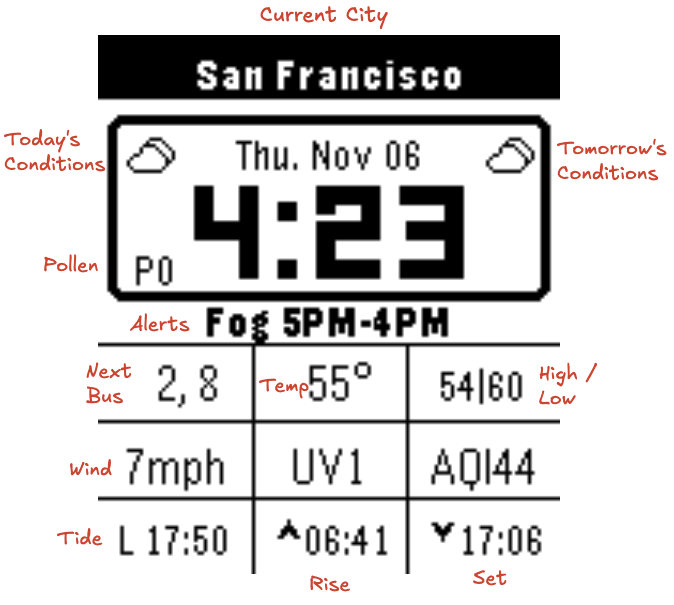
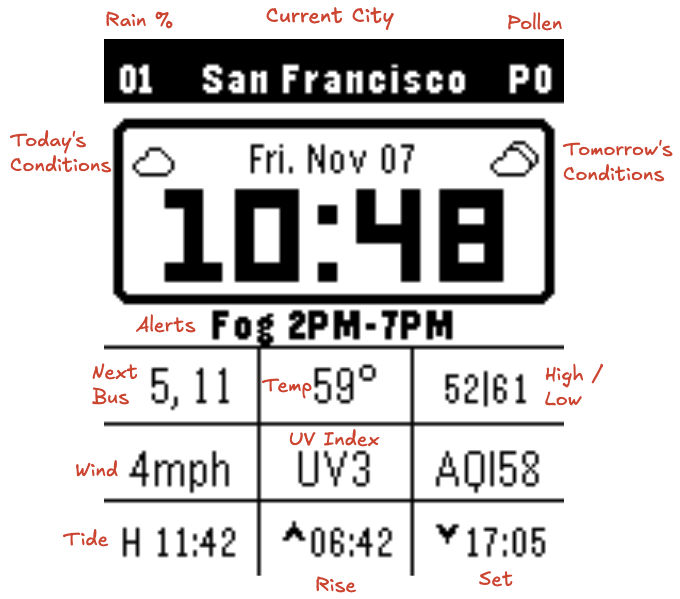
Add precipitation probability display and update documentation
Features:
- Add precipitation probability in top-left header (2-digit percentage)
- Move pollen display to top-right header for symmetry
- Both use bold font with inverted colors for header visibility
- Auto-update colors when switching themes

Technical Changes:
- Add PRECIPITATION_PROBABILITY message key to package.json
- Fetch current hour's precip probability from Open-Meteo hourly data
- Display with leading zero format (%02d): 01, 10, 89, etc.
- Add persistence support (PERSIST_KEY 25)
- Update apply_color_theme() to handle pollen and precip layers

Documentation:
- Update README.md with new header layout diagram
- Add precipitation probability to features list
- Update claude.md with detailed technical documentation
- Add new screenshots showing updated layout (normal + inverted themes)
- Update annotated screenshot with precipitation and pollen labels

UI Layout:
- Header now: [Rain%] [City Name] [Pollen]
- Clean 2-digit percentage shows chance of rain
- Pollen moved from time box to header for better balance

Changed region(s): [[0.0, 0.0, 0.997, 0.9917]]

diff --git a/src/pkjs/index.js b/src/pkjs/index.js
@@ -846,6 +846,11 @@ function sendDataToWatch(location, weatherData, aqiData, tideData, muniData, pol
     message.WEATHER_CODE = weatherData.current.weather_code || 0;
   }
 
+  // Current precipitation probability (from hourly data - use current or next hour)
+  if (weatherData && weatherData.hourly && weatherData.hourly.precipitation_probability) {
+    message.PRECIPITATION_PROBABILITY = weatherData.hourly.precipitation_probability[0] || 0;
+  }
+
   if (weatherData && weatherData.daily) {
     message.TEMP_MAX = Math.round(weatherData.daily.temperature_2m_max[0]);
     message.TEMP_MIN = Math.round(weatherData.daily.temperature_2m_min[0]);

diff --git a/src/c/fitzface.c b/src/c/fitzface.c
@@ -12,6 +12,7 @@
 #define KEY_SUNSET MESSAGE_KEY_SUNSET
 #define KEY_WIND_MAX MESSAGE_KEY_WIND_MAX
 #define KEY_AQI MESSAGE_KEY_AQI
+#define KEY_PRECIPITATION_PROBABILITY MESSAGE_KEY_PRECIPITATION_PROBABILITY
 #define KEY_TIDE_NEXT_TIME MESSAGE_KEY_TIDE_NEXT_TIME
 #define KEY_TIDE_NEXT_TYPE MESSAGE_KEY_TIDE_NEXT_TYPE
 #define KEY_TIDE_NEXT_HEIGHT MESSAGE_KEY_TIDE_NEXT_HEIGHT
@@ -68,6 +69,7 @@
 #define PERSIST_KEY_POLLEN_TREE 18
 #define PERSIST_KEY_POLLEN_GRASS 19
 #define PERSIST_KEY_POLLEN_WEED 20
+#define PERSIST_KEY_PRECIPITATION_PROBABILITY 25
 
 // Configuration persistence
 #define PERSIST_KEY_CONFIG_TEMP_UNIT 50
@@ -112,8 +114,11 @@ static GBitmap *s_temp_arrow_high_bitmap;
 // MUNI bus tracking (top-left grid cell)
 static TextLayer *s_muni_layer;
 
-// Pollen display (bottom-left of time box)
+// Pollen display (top right of header)
 static TextLayer *s_pollen_layer;
+
+// Precipitation probability (top left of header)
+static TextLayer *s_precip_layer;
 
 // Footer
 static TextLayer *s_tide_layer;
@@ -136,6 +141,7 @@ typedef struct {
   int temp_max;
   int temp_min;
   int aqi;
+  int precipitation_probability;  // 0-100%
   int tide_time;
   int tide_type; // 0 = low, 1 = high
   int sunrise;
@@ -367,7 +373,16 @@ static void update_weather_display() {
   // MUNI bus countdown updated separately (recalculated every minute)
   update_muni_display();
 
-  // Pollen display (bottom-left of time box) - show worst type + level
+  // Precipitation probability display (top left corner) - show as 2-digit percentage
+  static char precip_buffer[8];
+  if (s_weather_data.precipitation_probability >= 0) {
+    snprintf(precip_buffer, sizeof(precip_buffer), "%02d", s_weather_data.precipitation_probability);
+    text_layer_set_text(s_precip_layer, precip_buffer);
+  } else {
+    text_layer_set_text(s_precip_layer, "");
+  }
+
+  // Pollen display (top right corner) - show worst type + level
   static char pollen_buffer[8];
   if (s_weather_data.pollen_tree >= 0 || s_weather_data.pollen_grass >= 0 || s_weather_data.pollen_weed >= 0) {
     // Find highest pollen count
@@ -543,6 +558,8 @@ static void load_persisted_data() {
                                    persist_read_int(PERSIST_KEY_POLLEN_GRASS) : -1;
     s_weather_data.pollen_weed = persist_exists(PERSIST_KEY_POLLEN_WEED) ?
                                   persist_read_int(PERSIST_KEY_POLLEN_WEED) : -1;
+    s_weather_data.precipitation_probability = persist_exists(PERSIST_KEY_PRECIPITATION_PROBABILITY) ?
+                                                persist_read_int(PERSIST_KEY_PRECIPITATION_PROBABILITY) : 0;
   } else {
     // Default values
     s_weather_data.temperature = 0;
@@ -599,6 +616,7 @@ static void save_weather_data() {
   persist_write_int(PERSIST_KEY_POLLEN_TREE, s_weather_data.pollen_tree);
   persist_write_int(PERSIST_KEY_POLLEN_GRASS, s_weather_data.pollen_grass);
   persist_write_int(PERSIST_KEY_POLLEN_WEED, s_weather_data.pollen_weed);
+  persist_write_int(PERSIST_KEY_PRECIPITATION_PROBABILITY, s_weather_data.precipitation_probability);
 }
 
 // Load configuration
@@ -639,6 +657,7 @@ static void inbox_received_callback(DictionaryIterator *iterator, void *context)
   Tuple *weather_code_tuple = dict_find(iterator, KEY_WEATHER_CODE);
   Tuple *weather_code_tomorrow_tuple = dict_find(iterator, KEY_WEATHER_CODE_TOMORROW);
   Tuple *aqi_tuple = dict_find(iterator, KEY_AQI);
+  Tuple *precip_prob_tuple = dict_find(iterator, KEY_PRECIPITATION_PROBABILITY);
   Tuple *temp_max_tuple = dict_find(iterator, KEY_TEMP_MAX);
   Tuple *temp_min_tuple = dict_find(iterator, KEY_TEMP_MIN);
   Tuple *tide_time_tuple = dict_find(iterator, KEY_TIDE_NEXT_TIME);
@@ -674,6 +693,7 @@ static void inbox_received_callback(DictionaryIterator *iterator, void *context)
   if (weather_code_tuple) s_weather_data.weather_code = (int)weather_code_tuple->value->int32;
   if (weather_code_tomorrow_tuple) s_weather_data.weather_code_tomorrow = (int)weather_code_tomorrow_tuple->value->int32;
   if (aqi_tuple) s_weather_data.aqi = (int)aqi_tuple->value->int32;
+  if (precip_prob_tuple) s_weather_data.precipitation_probability = (int)precip_prob_tuple->value->int32;
   if (temp_max_tuple) s_weather_data.temp_max = (int)temp_max_tuple->value->int32;
   if (temp_min_tuple) s_weather_data.temp_min = (int)temp_min_tuple->value->int32;
   if (tide_time_tuple) s_weather_data.tide_time = (int)tide_time_tuple->value->int32;
@@ -822,7 +842,8 @@ static void apply_color_theme() {
   text_layer_set_text_color(s_uv_layer, get_foreground_color());
   text_layer_set_text_color(s_aqi_layer, get_foreground_color());
   text_layer_set_text_color(s_tide_layer, get_foreground_color());
-  text_layer_set_text_color(s_pollen_layer, get_foreground_color());
+  text_layer_set_text_color(s_pollen_layer, get_background_color());  // Inverted for header
+  text_layer_set_text_color(s_precip_layer, get_background_color());  // Inverted for header
   text_layer_set_text_color(s_sunrise_layer, get_foreground_color());
   text_layer_set_text_color(s_sunset_layer, get_foreground_color());
 
@@ -899,6 +920,17 @@ static void main_window_load(Window *window) {
   );
   layer_add_child(window_layer, text_layer_get_layer(s_location_layer));
 
+  // Precipitation probability (top left corner of header) - inverted colors for black header
+  s_precip_layer = create_text_layer_colored(
+    GRect(4, 3, 30, 14),
+    GTextAlignmentLeft,
+    fonts_get_system_font(FONT_KEY_GOTHIC_14_BOLD),
+    get_background_color(),  // Inverted: white text on black header, or black on white header
+    GColorClear
+  );
+  layer_add_child(window_layer, text_layer_get_layer(s_precip_layer));
+  text_layer_set_text(s_precip_layer, "");  // Empty by default
+
   // === TIME SECTION (26-80) ===
   // Date (centered) - smaller, above time (add this FIRST so icons appear on top)
   s_date_layer = create_text_layer(
@@ -928,11 +960,13 @@ static void main_window_load(Window *window) {
   );
   layer_add_child(window_layer, text_layer_get_layer(s_time_layer));
 
-  // Pollen display (bottom-left of time box)
-  s_pollen_layer = create_text_layer(
-    GRect(11, 64, 30, 14),
-    GTextAlignmentLeft,
-    fonts_get_system_font(FONT_KEY_GOTHIC_14)
+  // Pollen display (top right corner, next to city name) - inverted colors for black header
+  s_pollen_layer = create_text_layer_colored(
+    GRect(110, 3, 30, 14),
+    GTextAlignmentRight,
+    fonts_get_system_font(FONT_KEY_GOTHIC_14_BOLD),
+    get_background_color(),  // Inverted: white text on black header, or black on white header
+    GColorClear
   );
   layer_add_child(window_layer, text_layer_get_layer(s_pollen_layer));
   text_layer_set_text(s_pollen_layer, "");  // Empty by default
@@ -1127,6 +1161,7 @@ static void main_window_unload(Window *window) {
   text_layer_destroy(s_aqi_layer);
   text_layer_destroy(s_tide_layer);
   text_layer_destroy(s_pollen_layer);
+  text_layer_destroy(s_precip_layer);
   text_layer_destroy(s_sunrise_layer);
   text_layer_destroy(s_sunset_layer);
 }

diff --git a/claude.md b/claude.md
@@ -115,10 +115,10 @@ fitzface/
 
 ```
 ┌────────────────────────────┐  y=0
-│     San Francisco          │  Header: City Name (centered)
+│ 01  San Francisco      P0  │  Header: Rain% (left) | City Name (center) | Pollen (right)
 ├────────────────────────────┤  y=20 (DIVIDER)
 │ ☀    Wed, Nov 06       ☁   │  Today/Date/Tomorrow icons
-│ P0      19:09              │  Pollen (bottom-left) | Large Time (centered)
+│        19:09               │  Large Time (centered)
 │     High UV 11AM-3PM       │  Weather/Health Alert (y=80, dynamic, only when active)
 ├────────────────────────────┤  y=96 (DIVIDER - 3x3 GRID STARTS)
 │ 3,12 │  58°  │ 40|68       │  Row 1: MUNI buses | Current temp | Lo|Hi
@@ -129,6 +129,11 @@ fitzface/
 │ 3:59 │       │             │
 └────────────────────────────┘  y=168
 ```
+
+**Header Bar (y=0-20):**
+- **Left (x=4)**: Precipitation probability - 2-digit percentage (e.g., "01" = 1%, "89" = 89%)
+- **Center**: City name from GPS reverse geocoding
+- **Right (x=110)**: Pollen level - type + index (e.g., "T4" = Tree pollen level 4, "P0" = no pollen)
 
 **3x3 Grid Layout (48px × 24px cells):**
 - Top-left cell: MUNI bus countdown (e.g., "3,12" for 3 and 12 minutes)
@@ -381,7 +386,41 @@ if (code >= 66 && code <= 67) { /* Freezing rain */ }
 - **Empty response**: Bus may not be running (late night, holidays, route changes)
 - **Stale JavaScript**: Phone caches JS separately from .pbw - do full uninstall/reinstall if changes don't appear
 
-### 9. **Pollen Tracking System**
+### 9. **Precipitation Probability Display**
+
+**Data Source**: Open-Meteo hourly forecast
+- Automatically fetched with weather data every 30 minutes
+- Uses current hour's precipitation probability (0-100%)
+- No additional API calls required
+
+**Display** (`src/c/fitzface.c:376-383`):
+- Top-left corner of header (position: 4, 3)
+- Shows 2-digit percentage with leading zero (e.g., "01" = 1%, "89" = 89%, "100" = 100%)
+- Format: `%02d` ensures consistent width
+- Uses bold font (GOTHIC_14_BOLD) with inverted colors for header visibility
+
+**Data Processing** (`src/pkjs/index.js:849-852`):
+- Extracts `precipitation_probability[0]` from hourly forecast array
+- Sends as integer (0-100) via `PRECIPITATION_PROBABILITY` message key
+- Falls back to 0 if data unavailable
+
+**Persistence** (`src/c/fitzface.c:71, 560-561, 618`):
+- Stored in `PERSIST_KEY_PRECIPITATION_PROBABILITY` (key 25)
+- Survives watchface reloads
+- Updates every 30 minutes with weather sync
+
+**Color Theme Support** (`src/c/fitzface.c:846`):
+- Automatically updates text color when switching themes
+- White text on black header (normal mode)
+- Black text on white header (inverted mode)
+
+**Update Frequency**:
+- Syncs every 30 minutes with weather, AQI, tide, MUNI, and pollen requests
+- Always shows current hour's probability for immediate relevance
+
+---
+
+### 10. **Pollen Tracking System**
 
 **Configuration** (`src/pkjs/config.js:180-210`):
 - Enable/disable toggle for pollen display
@@ -402,11 +441,12 @@ if (code >= 66 && code <= 67) { /* Freezing rain */ }
   - 4: High
   - 5: Very High
 
-**Display** (`src/c/fitzface.c:344-370`):
-- Bottom-left of time box (position: 11, 64)
+**Display** (`src/c/fitzface.c:385-409`):
+- Top-right corner of header (position: 110, 3)
 - Shows highest pollen type with level (e.g., "T4", "G3", "W2")
 - Type indicators: T=Tree, G=Grass, W=Weed, P=Pollen (when all types are 0)
 - Always displays pollen field when pollen data is available (shows "P0" when all are 0)
+- Uses bold font (GOTHIC_14_BOLD) with inverted colors for header visibility
 
 **Alert Integration** (`src/pkjs/index.js:727-751`):
 - Triggers alert when any pollen type ≥4

diff --git a/README.md b/README.md
@@ -34,10 +34,14 @@ A high-density, data-rich watchface for the Pebble 2 Duo (B&W, 144x168), featuri
   - Extrapolates additional arrivals from bus interval when API returns fewer predictions
   - Configurable route, stop, and direction
   - Syncs with API every 30 minutes alongside weather data
+- **Precipitation Probability**: Current hour's chance of rain displayed as 2-digit percentage (e.g., "01" = 1%, "89" = 89%)
+  - Shown in top-left corner of header
+  - Updates every 30 minutes from Open-Meteo hourly forecast
 - **Weather Icons**: Current conditions + tomorrow's forecast icons
 - **Temperature Data**: Current, low, and high with visual indicators
 - **Wind & Environmental**: Wind speed, UV Index, Air Quality Index (AQI)
 - **Pollen Tracking**: Tree, grass, and weed pollen levels (0-5 scale) with type indicator
+  - Displayed in top-right corner of header (e.g., "T4" = Tree pollen level 4)
 - **Tide Information**: Next high/low tide with wave icon from NOAA
 - **Sunrise/Sunset Times**: Daily solar data with arrow indicators
 - **Configurable**: Show/hide individual data fields via settings
@@ -182,10 +186,10 @@ Optimized for Pebble hardware:
 
 ```
 ┌─────────────────────────┐
-│    San Francisco        │  ← Header: City Name (centered)
+│ 01  San Francisco   P0  │  ← Header: Rain% | City Name | Pollen
 ├─────────────────────────┤
 │ ☀  Wed, Nov 6      ☁    │  ← Today/Date/Tomorrow Weather Icons
-│ P0   19:09              │  ← Pollen (bottom-left) | Large Time Display
+│      19:09              │  ← Large Time Display
 │  High UV 11AM-3PM       │  ← Weather/Health Alert (dynamic, only when active)
 ├─────────────────────────┤
 │ 3,12 │  58°  │ 40|68    │  ← 3x3 Grid Row 1: MUNI | Current Temp | Lo|Hi
@@ -194,6 +198,11 @@ Optimized for Pebble hardware:
 │ 3:59 │       │          │
 └─────────────────────────┘
 ```
+
+**Header (Top Bar):**
+- **Left**: Precipitation probability (2-digit percentage, e.g., "01" = 1%, "89" = 89%)
+- **Center**: City name from GPS
+- **Right**: Pollen level (type + index, e.g., "T4" = Tree pollen level 4, "P0" = no pollen)
 
 **Grid Layout (3x3, 48px × 24px cells):**
 - **Row 1 (Temp)**: MUNI countdown | Current temp | Low|High temps
@@ -262,6 +271,7 @@ Communication between C and JavaScript:
 - `TEMPERATURE`, `TEMP_MAX`, `TEMP_MIN`
 - `WIND_SPEED`, `WIND_MAX`
 - `UV_INDEX`, `AQI`
+- `PRECIPITATION_PROBABILITY`
 - `WEATHER_CODE`, `WEATHER_CODE_TOMORROW`
 - `SUNRISE`, `SUNSET`
 
